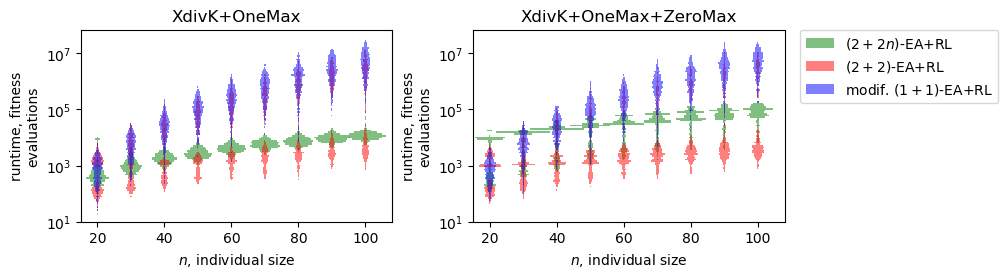
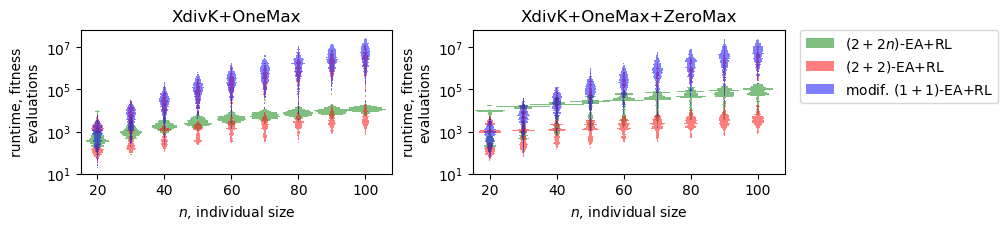
trying to make statistica plots

diff --git a/populational/plots_stat.py b/populational/plots_stat.py
@@ -72,30 +72,30 @@ with open('data/ea_2p2_xdk_merged.txt', 'r') as fin:
     data4 = list(map(float, fin.readlines()[-1].split()))
 
 
-earl_1p1_xdkom = [earl_1p1_xdkom[6][n] for n in range(20, 101, 10)]
-earl_2p2_xdkom = [sorted(list(map(lambda x: 2 * x, earl_2p2_xdkom[6][n]))) for n in range(20, 101, 10)]
-earl_2p2n_xdkom = [sorted(list(map(lambda x: x * n, earl_2p2n_xdkom[6][n]))) for n in range(20, 101, 10)]
+earl_1p1_xdkom_plot = [earl_1p1_xdkom[6][n] for n in range(20, 101, 10)]
+earl_2p2_xdkom_plot = [sorted(list(map(lambda x: 2 * x, earl_2p2_xdkom[6][n]))) for n in range(20, 101, 10)]
+earl_2p2n_xdkom_plot = [sorted(list(map(lambda x: x * n, earl_2p2n_xdkom[6][n]))) for n in range(20, 101, 10)]
 
-earlmod_1p1_xdkomzm = [earlmod_1p1_xdkomzm[6][n] for n in range(20, 101, 10)]
-earl_2p2_xdkomzm = [sorted(list(map(lambda x: 2 * x, earl_2p2_xdkomzm[6][n]))) for n in range(20, 101, 10)]
-earl_2p2n_xdkomzm = [sorted(list(map(lambda x: x * n, earl_2p2n_xdkomzm[6][n]))) for n in range(20, 101, 10)]
+earlmod_1p1_xdkomzm_plot = [earlmod_1p1_xdkomzm[6][n] for n in range(20, 101, 10)]
+earl_2p2_xdkomzm_plot = [sorted(list(map(lambda x: 2 * x, earl_2p2_xdkomzm[6][n]))) for n in range(20, 101, 10)]
+earl_2p2n_xdkomzm_plot = [sorted(list(map(lambda x: x * n, earl_2p2n_xdkomzm[6][n]))) for n in range(20, 101, 10)]
 
 
 
 scale = 5
 plt.subplot(121)
 for i in range(9):
-    violin_histogram(earl_2p2n_xdkom[i],
+    violin_histogram(earl_2p2n_xdkom_plot[i],
                      color='green',
-                     bins=[2 ** (i / scale) for i in range(scale * int(log(max(earl_2p2n_xdkom[6]), 2) + 2))],
+                     bins=[2 ** (i / scale) for i in range(scale * int(log(max(earl_2p2n_xdkom_plot[6]), 2) + 2))],
                      x=i * 10 + 20)
-    violin_histogram(earl_2p2_xdkom[i],
+    violin_histogram(earl_2p2_xdkom_plot[i],
                      color='red',
-                     bins=[2 ** (i / scale) for i in range(scale * int(log(max(earl_2p2_xdkom[6]), 2) + 2))],
+                     bins=[2 ** (i / scale) for i in range(scale * int(log(max(earl_2p2_xdkom_plot[6]), 2) + 2))],
                      x=i * 10 + 20)
-    violin_histogram(earl_1p1_xdkom[i],
+    violin_histogram(earl_1p1_xdkom_plot[i],
                      color='blue',
-                     bins=[2 ** (i / scale) for i in range(scale * int(log(max(earl_1p1_xdkom[6]), 2) + 2))],
+                     bins=[2 ** (i / scale) for i in range(scale * int(log(max(earl_1p1_xdkom_plot[6]), 2) + 2))],
                      x=i * 10 + 20)
 
 plt.yscale('log')
@@ -108,19 +108,19 @@ plt.title('XdivK+OneMax')
 scale = 5
 plt.subplot(122)
 for i in range(9):
-    violin_histogram(earl_2p2n_xdkomzm[i],
+    violin_histogram(earl_2p2n_xdkomzm_plot[i],
                      color='green',
-                     bins=[2 ** (i / scale) for i in range(scale * int(log(max(earl_2p2n_xdkomzm[6]), 2) + 2))],
+                     bins=[2 ** (i / scale) for i in range(scale * int(log(max(earl_2p2n_xdkomzm_plot[6]), 2) + 2))],
                      x=i * 10 + 20,
                      label='$(2+2n)$-EA+RL' if i == 0 else None)
-    violin_histogram(earl_2p2_xdkomzm[i],
+    violin_histogram(earl_2p2_xdkomzm_plot[i],
                      color='red',
-                     bins=[2 ** (i / scale) for i in range(scale * int(log(max(earl_2p2_xdkomzm[6]), 2) + 2))],
+                     bins=[2 ** (i / scale) for i in range(scale * int(log(max(earl_2p2_xdkomzm_plot[6]), 2) + 2))],
                      x=i * 10 + 20,
                      label='$(2+2)$-EA+RL' if i == 0 else None)
-    violin_histogram(earlmod_1p1_xdkomzm[i],
+    violin_histogram(earlmod_1p1_xdkomzm_plot[i],
                      color='blue',
-                     bins=[2 ** (i / scale) for i in range(scale * int(log(max(earlmod_1p1_xdkomzm[6]), 2) + 2))],
+                     bins=[2 ** (i / scale) for i in range(scale * int(log(max(earlmod_1p1_xdkomzm_plot[6]), 2) + 2))],
                      x=i * 10 + 20,
                      label='modif. $(1+1)$-EA+RL' if i == 0 else None)
 # plt.plot(range(20, 101, 10), [sum(earlmod_1p1_xdkomzm[i]) / len(earlmod_1p1_xdkomzm[i]) for i in range(len(earlmod_1p1_xdkomzm))], 'bo-')
@@ -146,6 +146,55 @@ plt.savefig('pic/histograms.png',
             bbox_extra_artists=(plt.legend(bbox_to_anchor=(1.05, 1), loc=2, borderaxespad=0.),),
             bbox_inches='tight',
             dpi=100)
+
+
+for with_zm in True, False:
+
+    for k in range(2, 6):
+        plt.subplot(409+k)
+        for i in range(9):
+            violin_histogram(earl_2p2n_xdkomzm[i],
+                             color='green',
+                             bins=[2 ** (i / scale) for i in range(scale * int(log(max(earl_2p2n_xdkomzm[6]), 2) + 2))],
+                             x=i * 10 + 20,
+                             label='$(2+2n)$-EA+RL' if i == 0 else None)
+            violin_histogram(earl_2p2_xdkomzm[i],
+                             color='red',
+                             bins=[2 ** (i / scale) for i in range(scale * int(log(max(earl_2p2_xdkomzm[6]), 2) + 2))],
+                             x=i * 10 + 20,
+                             label='$(2+2)$-EA+RL' if i == 0 else None)
+            violin_histogram(earlmod_1p1_xdkomzm[i],
+                             color='blue',
+                             bins=[2 ** (i / scale) for i in
+                                   range(scale * int(log(max(earlmod_1p1_xdkomzm[6]), 2) + 2))],
+                             x=i * 10 + 20,
+                             label='modif. $(1+1)$-EA+RL' if i == 0 else None)
+        # plt.plot(range(20, 101, 10), [sum(earlmod_1p1_xdkomzm[i]) / len(earlmod_1p1_xdkomzm[i]) for i in range(len(earlmod_1p1_xdkomzm))], 'bo-')
+        # plt.plot(range(20, 101, 10), [sum(earl_2p2_xdkomzm[i]) / len(earl_2p2_xdkomzm[i]) for i in range(len(earl_2p2_xdkomzm))], 'ro-')
+        # plt.plot(range(20, 101, 10), [sum(earl_2p2n_xdkomzm[i]) / len(earl_2p2n_xdkomzm[i]) for i in range(len(earl_2p2n_xdkomzm))], 'go-')
+        plt.yscale('log')
+        plt.xlim(15, 108)
+        plt.ylim(ymin=10)
+        plt.xlabel('$n$, individual size')
+        plt.ylabel('runtime, fitness\nevaluations')
+        plt.title('XdivK+OneMax+ZeroMax')
+
+    plt.subplots_adjust(wspace=0.5,
+                        hspace=0.4,
+                        left=0,
+                        right=0.5,
+                        top=2,
+                        bottom=0)
+    if with_zm:
+        plt.savefig('pic/xdkomzm_evals_appendix.png',
+                    bbox_inches='tight',
+                    dpi=200)
+    else:
+        plt.savefig('pic/xdkom_evals_appendix.png',
+                    bbox_extra_artists=(plt.legend(bbox_to_anchor=(0, -0.3), loc=2, borderaxespad=0.),),
+                    bbox_inches='tight',
+                    dpi=200)
+    plt.clf()
 # else:
 #     plt.savefig('pic/k{}_iters_box.png'.format(k),
 #                 bbox_inches='tight')
